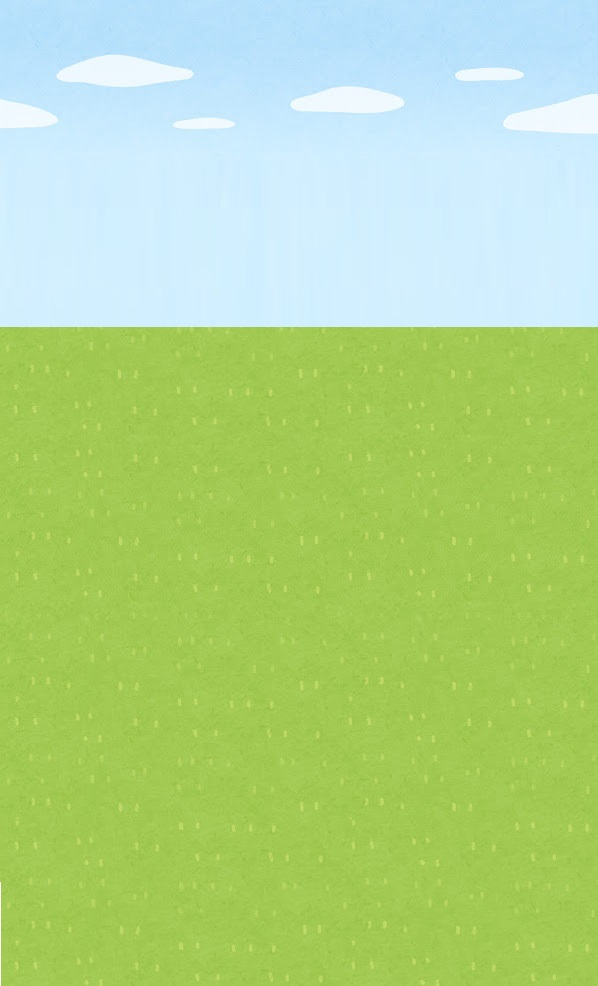
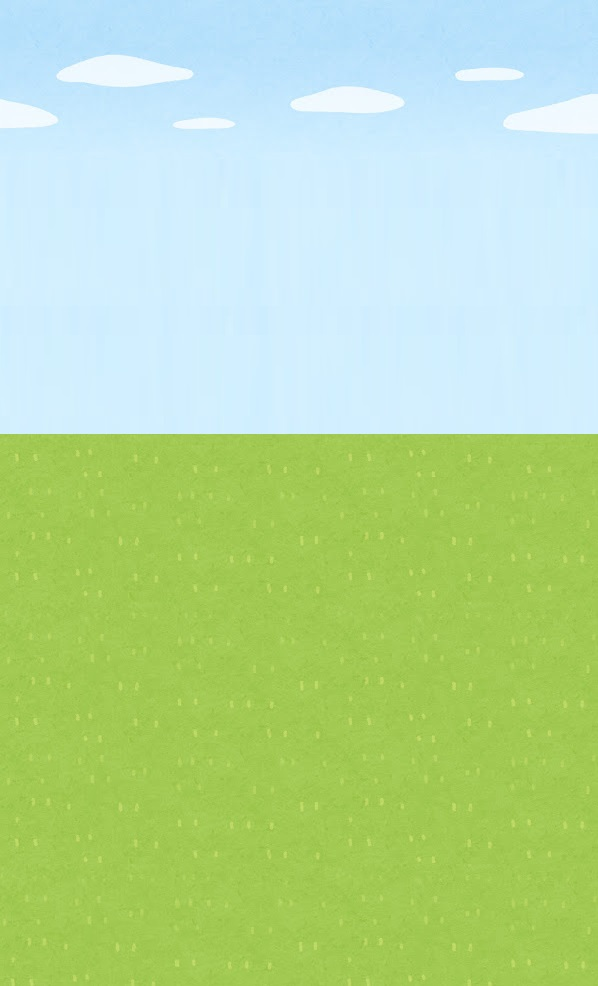
fix: ImageBackground Bug

Changed region(s): [[0.0, 0.3043, 1.0, 0.4564], [0.0, 0.9128, 0.0301, 1.0]]

diff --git a/src/screens/HomeScreen.tsx b/src/screens/HomeScreen.tsx
@@ -66,52 +66,56 @@ export default function HomeScreen() {
 
   return (
     // <SafeAreaView style={styles.Container}>
-    <>
+    // <ScrollView style={{minHeight: '100%', backgroundColor: 'red'}}>
+    <ImageBackground
+      imageStyle={{minHeight: '100%'}}
+      style={{minHeight: '100%'}}
+      source={backgroundImage}
+      resizeMode="cover">
       <ScrollView>
-        <ImageBackground source={backgroundImage}>
-          <View style={styles.Container}>
-            <View style={styles.Tmp}>
-              <Button title="월간" onPress={handleMonth} />
-              <Button title="주간" onPress={handleWeek} />
-            </View>
-            <ViewShot
-              ref={captureRef}
-              options={{fileName: 'Capture-File', format: 'jpg', quality: 0.9}}>
-              <View style={styles.Capture}>
-                <View style={styles.Header}>
-                  <AppText.Title family="round-a">
-                    오늘은 {date.getMonth() + 1}월 {date.getDate()}일 입니다
-                  </AppText.Title>
-                  <TouchableOpacity onPress={onCapture}>
-                    <Icon name="share" size={30} color="black" />
-                  </TouchableOpacity>
-                </View>
-                <View style={styles.PlantContainer}>
-                  <GrowingPlant kind="tree" level={9} type="spring_tree" />
-                  <GrowingPlant kind="flower" level={2} type="marigold" />
-                </View>
-              </View>
-            </ViewShot>
-            <GoalGrid />
-
-            {mVisible && (
-              <GoalRegDialog
-                visible={mVisible}
-                toggleDialog={handleMonth}
-                select="월간"
-              />
-            )}
-            {wVisible && (
-              <GoalRegDialog
-                visible={wVisible}
-                toggleDialog={handleWeek}
-                select="주간"
-              />
-            )}
+        <View style={styles.Container}>
+          <View style={styles.Tmp}>
+            <Button title="월간" onPress={handleMonth} />
+            <Button title="주간" onPress={handleWeek} />
           </View>
-        </ImageBackground>
+          <ViewShot
+            ref={captureRef}
+            options={{fileName: 'Capture-File', format: 'jpg', quality: 0.9}}>
+            <View style={styles.Capture}>
+              <View style={styles.Header}>
+                <AppText.Title family="round-a">
+                  오늘은 {date.getMonth() + 1}월 {date.getDate()}일 입니다
+                </AppText.Title>
+                <TouchableOpacity onPress={onCapture}>
+                  <Icon name="share" size={30} color="black" />
+                </TouchableOpacity>
+              </View>
+              <View style={styles.PlantContainer}>
+                <GrowingPlant kind="tree" level={9} type="spring_tree" />
+                <GrowingPlant kind="flower" level={2} type="marigold" />
+              </View>
+            </View>
+          </ViewShot>
+          <GoalGrid />
+
+          {mVisible && (
+            <GoalRegDialog
+              visible={mVisible}
+              toggleDialog={handleMonth}
+              select="월간"
+            />
+          )}
+          {wVisible && (
+            <GoalRegDialog
+              visible={wVisible}
+              toggleDialog={handleWeek}
+              select="주간"
+            />
+          )}
+        </View>
       </ScrollView>
-    </>
+    </ImageBackground>
+    // </ScrollView>
     // </SafeAreaView>
   );
 }
@@ -122,6 +126,7 @@ const styles = StyleSheet.create({
     alignItems: 'center',
     justifyContent: 'center',
     marginBottom: 10,
+    minHeight: '100%',
   },
   Tmp: {
     flexDirection: 'row',

diff --git a/src/Navigator/AccountBookNavigator.tsx b/src/Navigator/AccountBookNavigator.tsx
@@ -2,6 +2,8 @@ import {createNativeStackNavigator} from '@react-navigation/native-stack';
 import {Account} from '@constants/screen';
 import AccountBookScreen from '@screens/AccountBookScreen';
 import AccountChartScreen from '../screens/AccountChartScreen';
+import {Text} from '@rneui/base';
+import AccountHistoryScreen from '@/screens/AccountHistory';
 
 const Stack = createNativeStackNavigator();
 
@@ -11,15 +13,33 @@ export default function AccountBookNavigator() {
       <Stack.Screen
         name={Account.Main}
         component={AccountBookScreen}
-        options={{
+        options={({navigation}) => ({
           title: '지출 내역',
-        }}
+          headerRight() {
+            return (
+              <Text
+                style={{color: '#29b6f6'}}
+                onPress={() => {
+                  navigation.navigate(Account.History);
+                }}>
+                연혁
+              </Text>
+            );
+          },
+        })}
       />
       <Stack.Screen
         name={Account.Chart}
         component={AccountChartScreen}
         options={{
           title: '지출 분석',
+        }}
+      />
+      <Stack.Screen
+        name={Account.History}
+        component={AccountHistoryScreen}
+        options={{
+          title: '연혁',
         }}
       />
     </Stack.Navigator>

diff --git a/src/screens/AccountHistory.tsx b/src/screens/AccountHistory.tsx
@@ -1,0 +1,24 @@
+import HistoryView from '@/features/History/HistoryView';
+import {useWidgetByRange, useWidgets} from '@/query/widget';
+import {useState} from 'react';
+import {ScrollView} from 'react-native';
+import BookHistoryHeader from '../features/History/BookHistoryHeader';
+
+interface AccountHistoryProps {}
+
+const CurrentYear = new Date().getFullYear();
+
+export default function AccountHistoryScreen({}: AccountHistoryProps) {
+  const [targetYear, setTargetYear] = useState(CurrentYear);
+  const {data} = useWidgets();
+
+  return (
+    <ScrollView>
+      <BookHistoryHeader
+        currentYear={targetYear}
+        setCurrentYear={setTargetYear}
+      />
+      <HistoryView widgets={data || []} />
+    </ScrollView>
+  );
+}

diff --git a/src/screens/AccountBookScreen.tsx b/src/screens/AccountBookScreen.tsx
@@ -1,6 +1,6 @@
 import BookCalendar from '@/features/Book/BookCalendar';
 import {useMemo, useState, useEffect} from 'react';
-import {ScrollView} from 'react-native';
+import {ScrollView, View} from 'react-native';
 import {useWidgetWithDate} from '../query/widget';
 import AnalysisCost from '../features/Book/AnalysisCost';
 import BookWidget from '@/features/Book/BookWidget';
@@ -36,6 +36,7 @@ export default function AccountBookScreen() {
         onClickDay={setFocusedWidgetId}
       />
       {focusedWidgetId !== 0 && <BookWidget id={focusedWidgetId} />}
+      <View style={{paddingBottom: 20}} />
     </ScrollView>
   );
 }

diff --git a/src/features/Home/Goal/GoalGrid.tsx b/src/features/Home/Goal/GoalGrid.tsx
@@ -45,6 +45,7 @@ const styles = StyleSheet.create({
   GridContainer: {
     width: '95%',
     borderColor: '',
+    marginBottom: 30,
   },
   GridHeaders: {
     flexGrow: 1,
